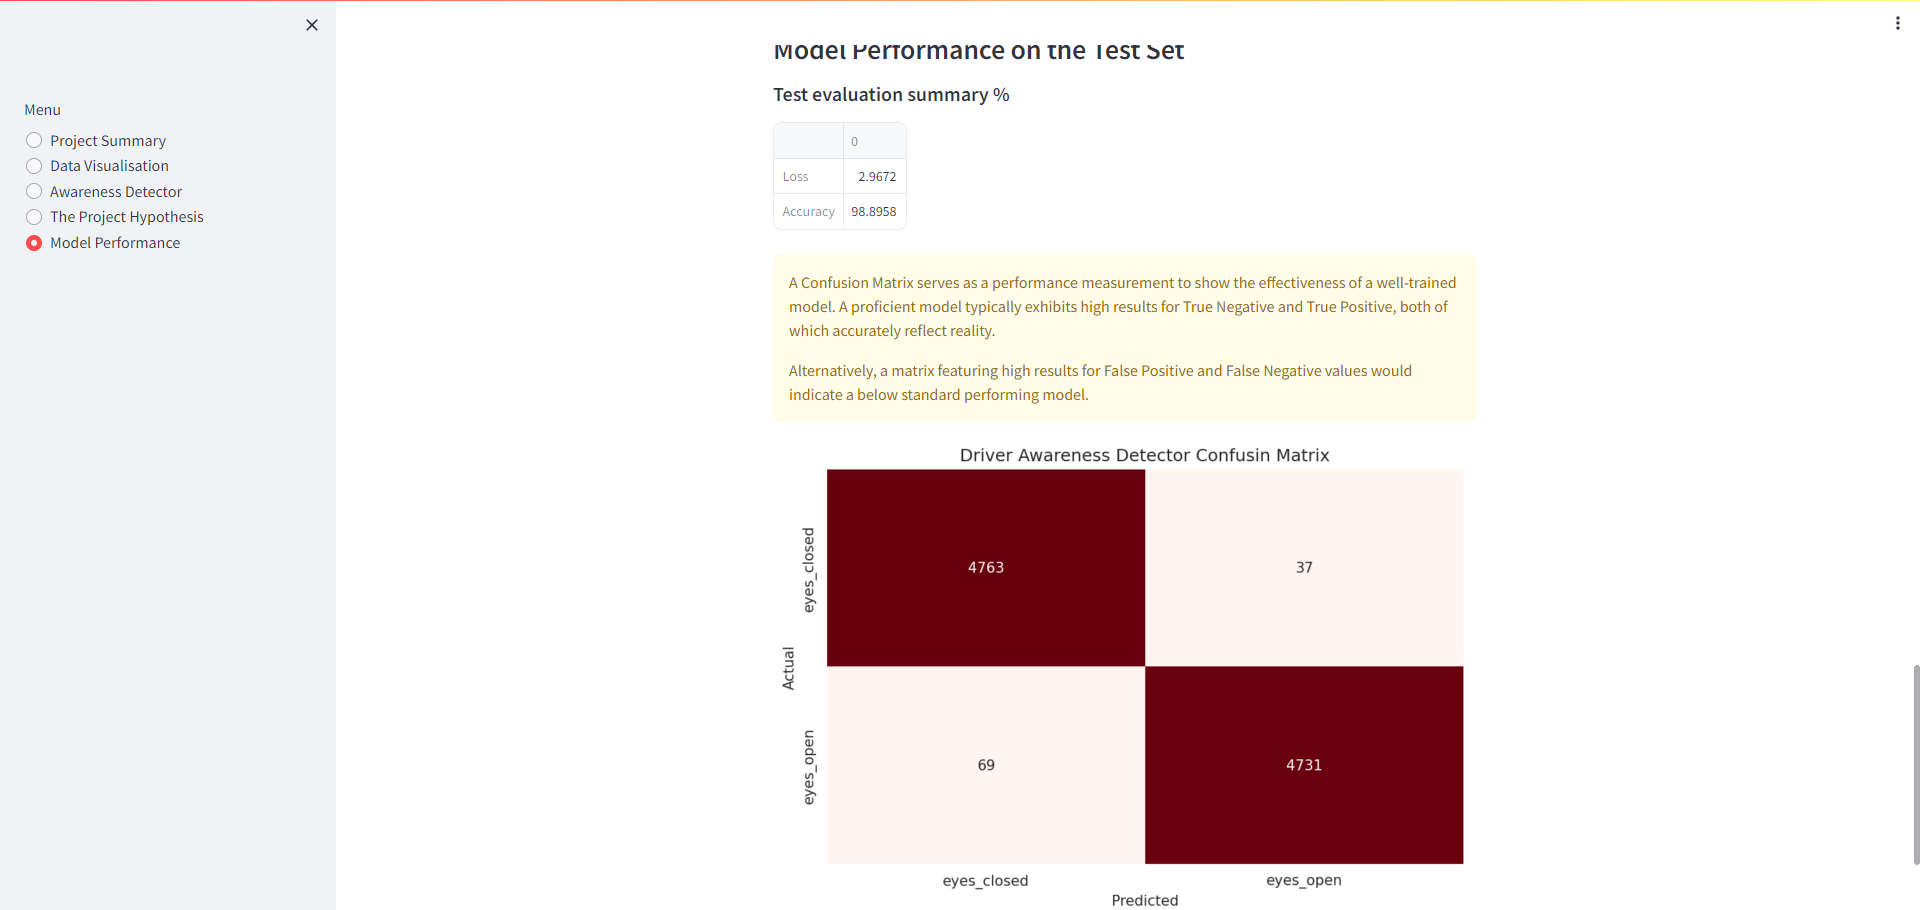
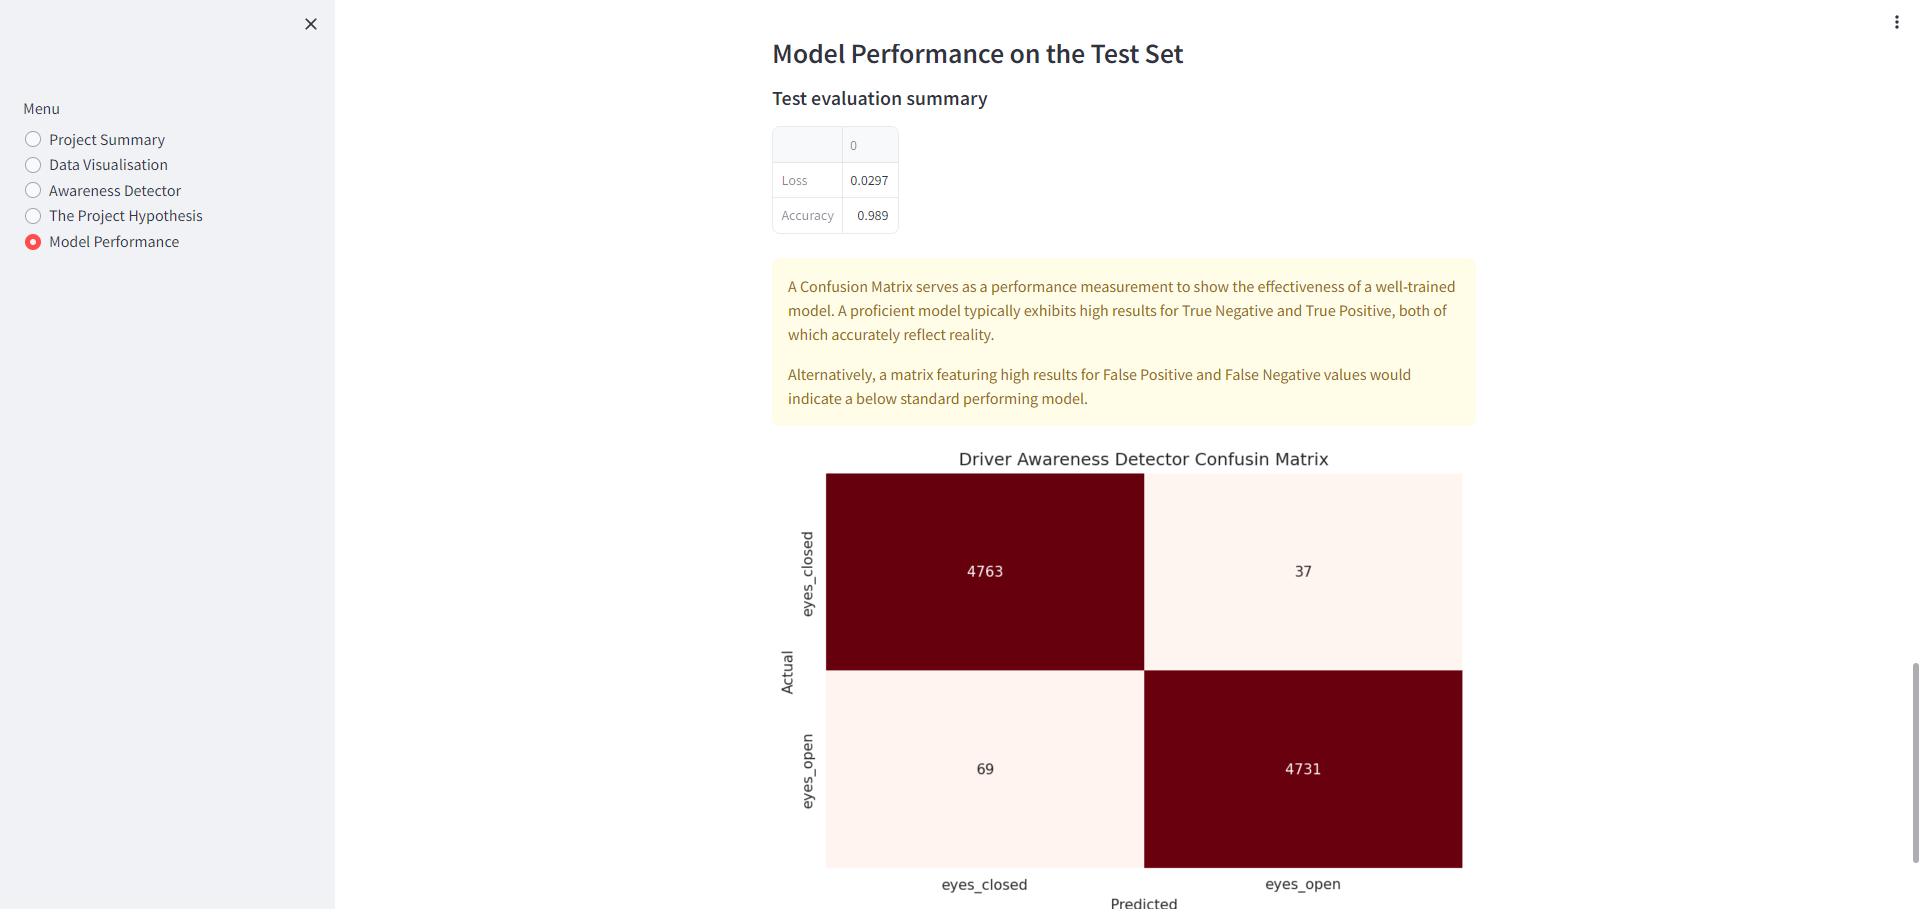
remove % score for prediction summary

diff --git a/app_pages/page_one_summary.py b/app_pages/page_one_summary.py
@@ -26,5 +26,5 @@ def page_one_content():
         "- An accurate prediction of a driver awareness \n\n "
         "- Create downloadable reports based on these predictions.\n\n "
         "The successful completion of these requirements will serve as a proof of concept, paving the way for further development. "
-        "The ultimate objective is to establish a machine learning system capable of detecting a drivers awareness."
+        "The ultimate objective is to establish a machine learning system capable of detecting a drivers current awareness through the state of their eyes."
         )

diff --git a/app_pages/page_two_data_visualisation.py b/app_pages/page_two_data_visualisation.py
@@ -35,8 +35,8 @@ def page_two_content():
         diff_between_avgs = plt.imread(f'outputs/{version}/avg_diff.png')
 
         st.warning(
-            "We notice this study didn't show patterns where we could intuitavely"
-            " differentiate between eyes_open and eyes_closed")
+            "We notice this study didn't show patterns where we could clearly "
+            "differentiate between eyes_open and eyes_closed")
 
         st.image(diff_between_avgs, caption="Difference between average images for eyes_open and eyes_closed")
 

diff --git a/app_pages/page_five_model_performance.py b/app_pages/page_five_model_performance.py
@@ -66,13 +66,10 @@ def page_five_content():
 
     st.write("### Model Performance on the Test Set")
 
-    st.write("##### Test evaluation summary %")
+    st.write("##### Test evaluation summary")
     # import the evaluation test results
     data = load_test_evaluation(version)
 
-    # Convert data to percentage
-    data[1] *= 100  # 'Accuracy'
-    data[0] *= 100  # 'Loss'
     st.dataframe(pd.DataFrame(data, index=['Loss', 'Accuracy']))
 
     st.warning(

diff --git a/README.md b/README.md
@@ -293,7 +293,7 @@ This page presents the hypothesis for the project and the corresponding conclusi
 
 This section offers an overview of the data distribution, highlighting distinctions between test, train, and validate sets, along with their respective ratios.
 
-Two graphs show the model's performance, focusing on Accuracy and Loss. The concluding graph features the confusion matrix, supported by an explanation. Additionally, a chart provides a summary of the model's overall performance in terms of Loss and Accuracy, measured in '%'.
+Two graphs show the model's performance, focusing on Accuracy and Loss. The concluding graph features the confusion matrix, supported by an explanation. Additionally, a chart provides a summary of the model's overall performance in terms of Loss and Accuracy.
 
 <details>
 <summary>Image Distribution Graph</summary>
@@ -308,7 +308,7 @@ Two graphs show the model's performance, focusing on Accuracy and Loss. The conc
 <img src="assets/images/model-performance-03.png">
 </details>
 <details>
-<summary>Prediction % and Confusion Matrix</summary>
+<summary>Prediction and Confusion Matrix</summary>
 <img src="assets/images/model-performance-04.png">
 </details>
 
